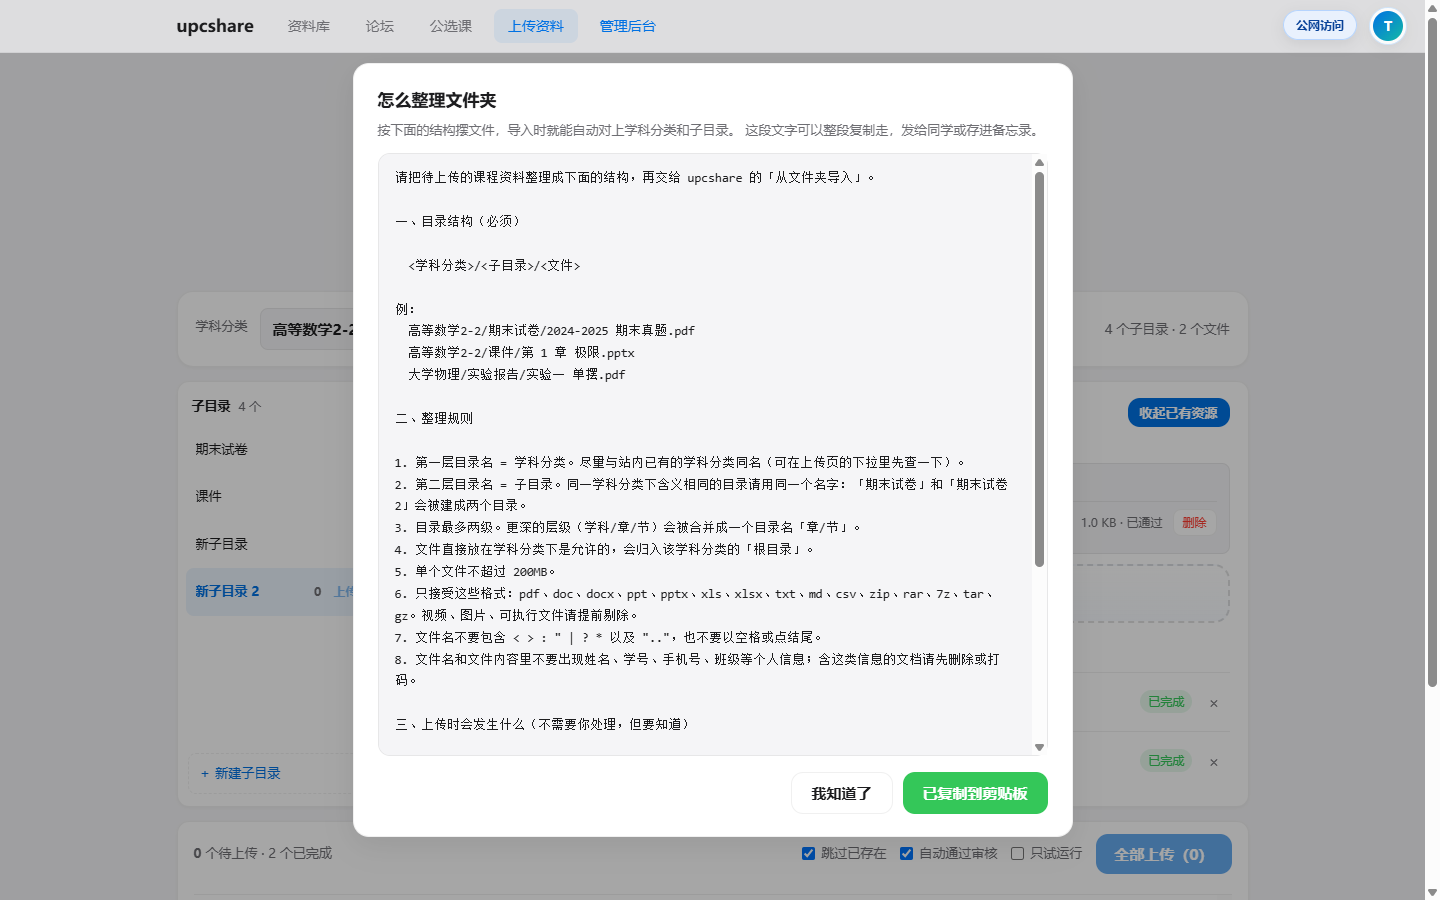
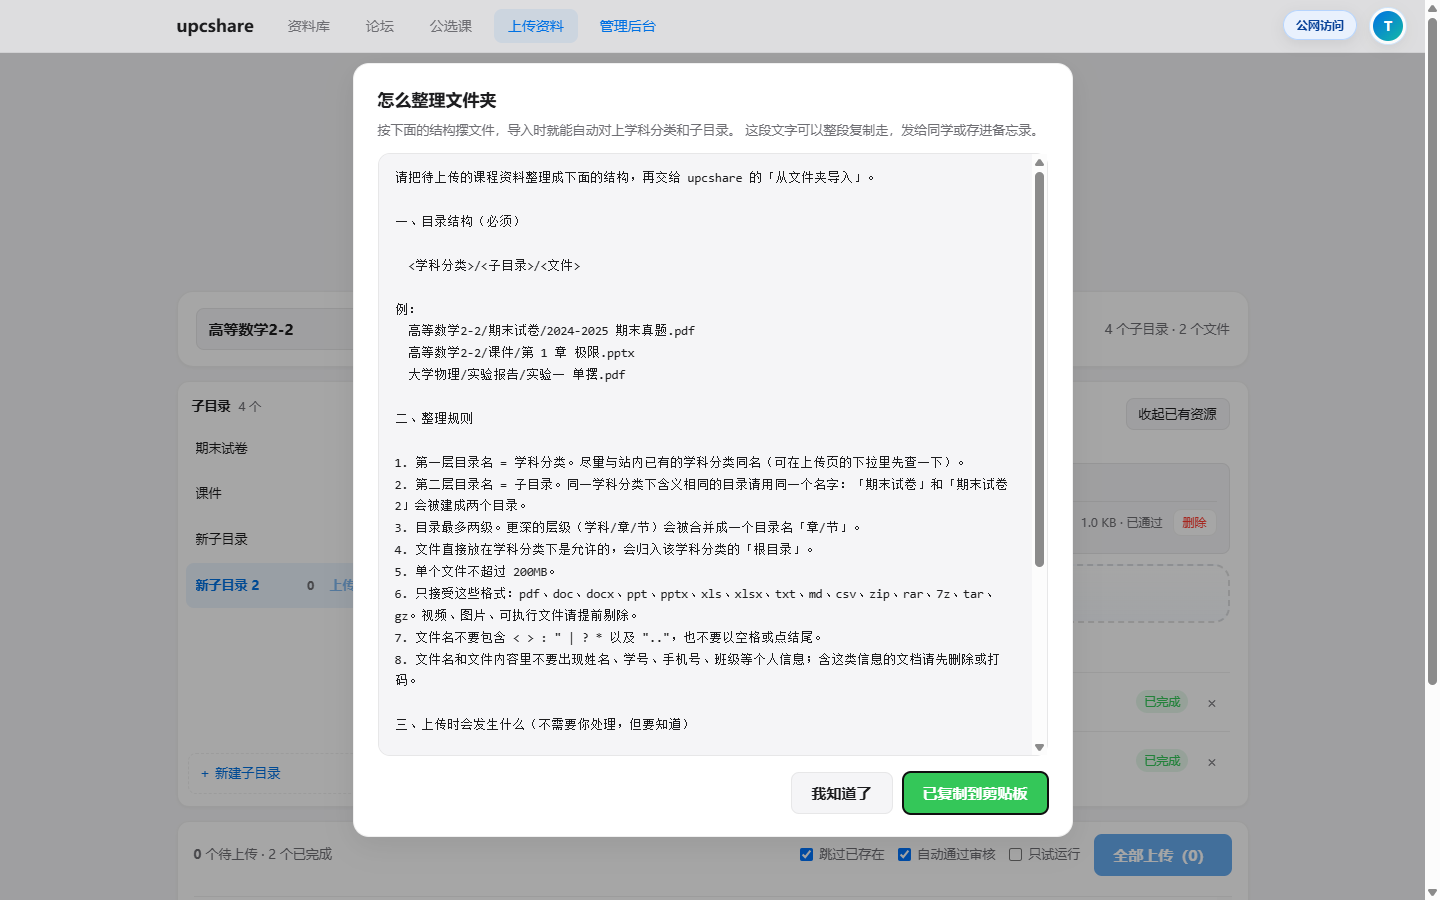
界面收成两档盒子；整理规范入口改成导入按钮上的「?」
- 去掉最左边的「学科分类」文字标签（placeholder 已说明这一栏是什么，
  无障碍名字改挂输入的 aria-label）；学科分类下拉的左偏移跟着改成贴着输入框。
- 第三个盒子换成贴在「从文件夹导入」右上角的 20px「?」徽标：
  hover / 键盘聚焦浮出 tooltip「查看文件夹导入规范」，点开还是那份可复制的规范。
- 两档规格：主操作 42px/15·600、次级 32px/13·500，圆角一律 8px。
  「上传设置」从裸文字改成次级盒子；.btn-upload.small 不再继承实心蓝底；
  文件行 × 点击区补到 32px；主按钮补 1px 边框以对齐盒模型。
- ui-check 断言 18 → 21：新增徽标位置/aria-label/tooltip 与「真按 Tab 才有的
  :focus-visible」可达性两条（programmatic focus() 不算 :focus-visible）。

diff --git a/vue/src/components/uploader/CoursePicker.vue b/vue/src/components/uploader/CoursePicker.vue
@@ -1,7 +1,6 @@
 <template>
   <div class="batch-course-bar">
-    <label class="form-label" for="batch-course">学科分类</label>
-
+    <!-- 不放「学科分类」文字标签：placeholder 已经说明这一栏是什么；无障碍名字挂在输入的 aria-label 上 -->
     <div class="course-box">
       <input
         id="batch-course"
@@ -10,6 +9,7 @@
         class="form-input course-input"
         type="text"
         placeholder="选择已有学科分类，或输入新建名称"
+        aria-label="学科分类"
         autocomplete="off"
         role="combobox"
         :aria-expanded="open ? 'true' : 'false'"
@@ -33,14 +33,18 @@
       >×</button>
     </div>
 
-    <button class="btn-upload browse" type="button" :disabled="store.s.running" @click="picker?.click()">
-      从文件夹导入
-    </button>
+    <!-- 「查看文件夹导入规范」不占第三个盒子：做成贴在导入按钮右上角的「?」徽标，
+         悬停/键盘聚焦浮出 tooltip，点开还是那份可复制的整理规范。 -->
+    <div class="import-box">
+      <button class="btn-upload browse" type="button" :disabled="store.s.running" @click="picker?.click()">
+        从文件夹导入
+      </button>
+      <button class="help-badge" type="button" aria-label="查看文件夹导入规范" title="查看文件夹导入规范"
+        @click="store.s.helpOpen = true">?</button>
+      <span class="help-tip" role="tooltip">查看文件夹导入规范</span>
+    </div>
     <input ref="picker" type="file" data-role="folder-picker" webkitdirectory directory multiple class="sr-only" @change="onPickFolder" />
 
-    <button class="help-link" type="button" title="查看文件夹整理规范" @click="store.s.helpOpen = true">
-      不知道怎么整理？
-    </button>
 
     <span class="course-summary">{{ summary }}</span>
 
@@ -193,15 +197,26 @@ function onPickFolder(event) {
 }
 .browse:hover { background: var(--bg); border-color: var(--accent); color: var(--text-primary); }
 .course-summary { margin-left: auto; color: var(--text-secondary); font-size: 13px; }
-.help-link {
-  /* 和左边两个盒子连字都统一：15px / 600 / 主文本色，hover 只点亮描边 */
-  border: 1px solid var(--border); background: var(--bg); color: var(--text-primary);
-  font-family: inherit; font-size: 15px; font-weight: 600; line-height: 20px;
-  padding: 10px 18px; border-radius: var(--radius-sm); cursor: pointer; flex: none;
+.import-box { position: relative; display: inline-flex; flex: none; }
+/* 「?」徽标：贴在导入按钮右上角，hover / 键盘聚焦时浮出 tooltip */
+.help-badge {
+  position: absolute; top: -8px; right: -8px; width: 20px; height: 20px; padding: 0;
+  display: inline-flex; align-items: center; justify-content: center;
+  border: 1px solid var(--accent); border-radius: 50%;
+  background: var(--surface); color: var(--accent);
+  font-family: inherit; font-size: 12px; font-weight: 700; line-height: 1; cursor: pointer;
 }
-.help-link:hover { border-color: var(--accent); background: var(--bg); color: var(--text-primary); }
+.help-badge:hover, .help-badge:focus-visible { background: var(--accent); color: var(--surface); }
+.help-tip {
+  position: absolute; bottom: calc(100% + 6px); right: -2px; white-space: nowrap;
+  background: var(--text-primary); color: var(--surface);
+  font-size: 12px; font-weight: 500; padding: 5px 9px; border-radius: 6px;
+  opacity: 0; pointer-events: none; transition: opacity .12s ease;
+}
+.help-badge:hover + .help-tip, .help-badge:focus-visible + .help-tip { opacity: 1; }
 .course-menu {
-  position: absolute; left: 92px; top: 62px; z-index: 30;
+  /* 左边没有标签了，下拉贴着输入框左沿（卡片内边距 18px）*/
+  position: absolute; left: 18px; top: 62px; z-index: 30;
   width: 300px; max-height: 220px; overflow: auto;
   background: var(--surface); border: 1px solid var(--border);
   border-radius: var(--radius-md); box-shadow: var(--shadow-md);

diff --git a/vue/src/components/uploader/FileDrop.vue b/vue/src/components/uploader/FileDrop.vue
@@ -195,10 +195,18 @@ function onDrop(event) {
 .chip-done { background: rgba(52, 199, 89, .12); color: var(--green); }
 .chip-failed, .chip-toolarge, .chip-badname, .chip-unsupported { background: rgba(255, 59, 48, .1); color: var(--danger); }
 .chip-dupname { background: rgba(255, 204, 0, .16); color: #997317; }
-.chip-btn { border: none; background: transparent; color: var(--accent); font: inherit; font-size: 12px; cursor: pointer; }
-.rm { border: none; background: transparent; color: var(--text-secondary); cursor: pointer; font-size: 15px; padding: 2px 6px; }
+.chip-btn { border: none; background: transparent; color: var(--accent); font: inherit; font-size: 13px; cursor: pointer; }
+/* × 也要有 28px 以上的点击区，并且 hover 底用同一个圆角 */
+.rm { border: none; background: transparent; color: var(--text-secondary); cursor: pointer; font-size: 15px; padding: 6px 8px; border-radius: var(--radius-sm); }
 .rm[disabled] { opacity: .4; cursor: not-allowed; }
-.btn-upload.small { padding: 6px 12px; font-size: 13px; }
+/* 次级档：软底 + 1px 实线 + 8px 圆角 + 13px/500（上游 .btn-upload 是实心蓝底主按钮，这里要的是行内次级） */
+.btn-upload.small {
+  padding: 6px 12px; font-size: 13px; font-weight: 500; line-height: 18px;
+  background: var(--bg); color: var(--text-primary); border: 1px solid var(--border);
+  border-radius: var(--radius-sm); margin-top: 0; width: auto;
+}
+.btn-upload.small:hover { background: var(--bg); border-color: var(--accent); color: var(--text-primary); }
+.btn-upload.small:disabled { opacity: .45; }
 .sr-only {
   position: absolute; width: 1px; height: 1px; padding: 0; margin: -1px;
   overflow: hidden; clip: rect(0, 0, 0, 0); white-space: nowrap; border: 0;

diff --git a/vue/src/components/uploader/QueueBar.vue b/vue/src/components/uploader/QueueBar.vue
@@ -69,9 +69,13 @@ const text = computed(() => {
 .progress-bar i { display: block; height: 100%; background: var(--accent); transition: width .2s ease; }
 .progress-meta { display: flex; justify-content: space-between; color: var(--text-secondary); font-size: 12px; margin-top: 4px; }
 .queue-right { display: flex; align-items: center; gap: 14px; flex-wrap: wrap; }
-.queue-right .btn-upload { width: auto; margin-top: 0; padding: 10px 18px; }
+/* 主操作档：和课程栏三个盒子同一套（15px/600、10px 上下内边距、8px 圆角 = 42px 高） */
+.queue-right .btn-upload {
+  width: auto; margin-top: 0; padding: 10px 18px; line-height: 20px; border: 1px solid transparent;
+  font-size: 15px; font-weight: 600; border-radius: var(--radius-sm);
+}
 .opt { display: inline-flex; align-items: center; gap: 6px; font-size: 13px; color: var(--text-secondary); cursor: pointer; }
-.btn-upload.stop { background: var(--surface); color: var(--danger); border: 1px solid var(--border); }
+.btn-upload.stop { background: var(--bg); color: var(--danger); border: 1px solid var(--border); }
 .log {
   width: 100%; max-height: 148px; overflow: auto; margin-top: 4px;
   border-top: 1px solid var(--border); padding-top: 8px;

diff --git a/vue/src/components/uploader/OrganizeHelp.vue b/vue/src/components/uploader/OrganizeHelp.vue
@@ -121,7 +121,11 @@ onUnmounted(() => {
 }
 .help-warn { margin: 10px 0 0; color: #b45309; font-size: 12.5px; }
 .help-actions { display: flex; justify-content: flex-end; gap: 10px; margin-top: 16px; flex: none; }
-.help-actions .btn-upload { width: auto; margin-top: 0; padding: 10px 20px; display: inline-flex; }
+/* 弹层底部两颗按钮也走主操作档，和页面里的盒子同一套 */
+.help-actions .btn-upload {
+  width: auto; margin-top: 0; padding: 10px 20px; display: inline-flex;
+  font-size: 15px; font-weight: 600; line-height: 20px; border-radius: var(--radius-sm);
+}
 .help-actions .btn-upload.copied { background: var(--green); }
-.btn-upload.ghost { background: var(--surface); color: var(--text-primary); border: 1px solid var(--border); }
+.btn-upload.ghost { background: var(--bg); color: var(--text-primary); border: 1px solid var(--border); }
 </style>

diff --git a/vue/src/components/uploader/DirRail.vue b/vue/src/components/uploader/DirRail.vue
@@ -103,13 +103,13 @@ function act(kind, dir) {
 .dir-count { color: var(--text-secondary); font-size: 12px; }
 .dir-upload {
   border: none; background: transparent; color: var(--accent);
-  font: inherit; font-size: 12px; cursor: pointer; padding: 2px 4px; flex: none;
+  font: inherit; font-size: 13px; cursor: pointer; padding: 3px 7px; border-radius: 6px; flex: none;
 }
 .dir-upload[disabled] { opacity: .45; cursor: not-allowed; }
 .dir-more-wrap { position: relative; flex: none; }
 .dir-more {
   border: none; background: transparent; color: var(--text-secondary);
-  font: inherit; cursor: pointer; padding: 2px 6px; border-radius: var(--radius-sm);
+  font: inherit; font-size: 13px; cursor: pointer; padding: 3px 7px; border-radius: 6px;
 }
 .dir-more:hover { background: var(--bg); color: var(--text-primary); }
 .dir-menu {
